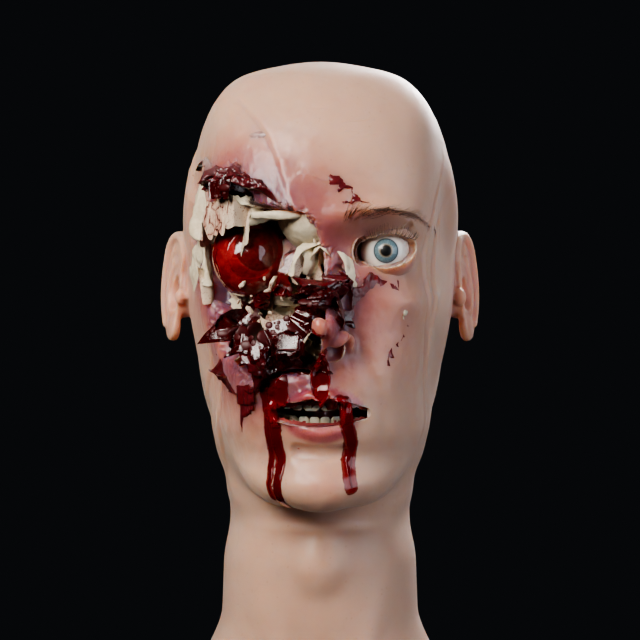
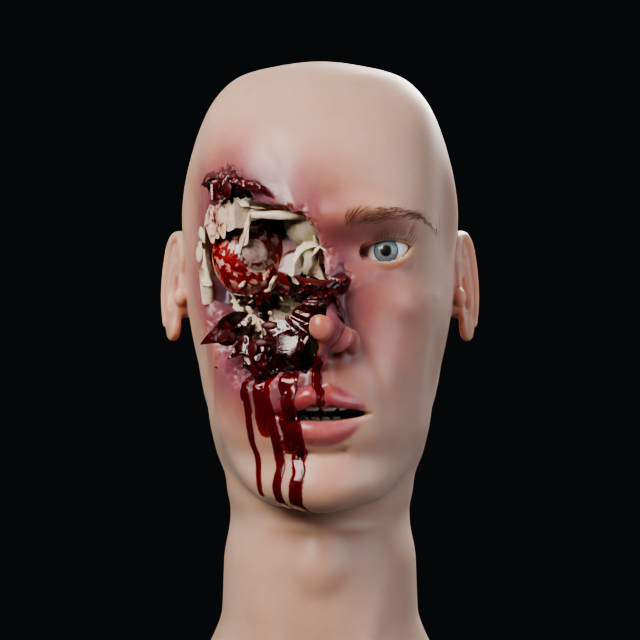
Face feedback: deep-set eye fix dropped by the user; standing 1:1-realism rule
Claude-Session: https://claude.ai/code/session_0186CV4JXPBpxwWrzN3Er8XW

Changed region(s): [[0.2812, 0.2188, 0.6875, 0.8125], [0.3125, 0.1562, 0.3438, 0.2188], [0.5938, 0.5312, 0.625, 0.5625]]

diff --git a/blender/gore_head/FACE_FEEDBACK.md b/blender/gore_head/FACE_FEEDBACK.md
@@ -9,7 +9,8 @@ The user's verdict on the current head (verbatim intent):
   leading into the canal, tragus and antitragus, and a SMALL lobe. Ears sit between brow line and nose base, tilted back
   ~15-20°, and stand off the head only slightly.
 - **Earlobes are far too long.** Shorten to a normal adult lobe (~15-20 mm of the ~60-65 mm ear height).
-- **Eyes look bug-eyed.** Seat the eyeballs deeper in the orbits: more brow-ridge overhang, deeper upper-lid crease and
+- ~~Eyes look bug-eyed / seat deeper~~ — **NO LONGER REQUIRED (user, 2026-09-27: "u dont gotta fix the eyes deepset just ensure 1:1 realism")**. Keep the eyes as they are; only fix them if something is anatomically wrong.
+- (old note) **Eyes look bug-eyed.** Seat the eyeballs deeper in the orbits: more brow-ridge overhang, deeper upper-lid crease and
   orbital hollow, lids covering more of the globe (upper lid over the top of the iris), less of the eyeball exposed from
   the side.
 - **Eyes are too far apart.** Reduce the interpupillary distance a little (adult male IPD ~62-64 mm, i.e. eye centres at
@@ -49,3 +50,7 @@ layer overlap checks pass (`python3 anatomy.py`). Also new for the cutaway: cerv
 spinal cord continuing the brain stem down the canal, an airway (pharynx → trachea) carved in the muscle layer,
 a frontal sinus, a larger maxillary sinus, a thinner palate and a domed tongue.
 Not done: a full sculpt-level rebuild of the auricle (helix roll / antihelix Y are the round-1 ones).
+
+
+## Standing rule (user, 2026-09-27)
+"ensure 1:1 realism on ur efforts. allways" — every change, on every part, is judged against real anatomy and the reference photos; nothing is "good enough" if it looks less real than the refs.

diff --git a/CLAUDE.md b/CLAUDE.md
@@ -55,6 +55,8 @@ integration stage and becomes the head of the full body.
 - **Reference photos:** the user supplied real forensic reference photos for education. Use them ONLY for generic
   injury/blood properties (recorded in `gore-game/docs/REFERENCE_NOTES.md`); never faces, tattoos, identities or a
   specific person's injuries; never commit the photos. The photos (1-21 plus face and GSW sheets) are in the git-ignored `refs/` folder at the repo root (they must be copied there locally; they are NOT in git); `refs/12_our_render_wall_stripes.png` shows OUR stripe artefact to eliminate; every agent building or reviewing wounds, blood, tissue, bone, skull, brain or the dead body must LOOK at them and compare renders side by side.
+- **Standing rule (user, 2026-09-27): "ensure 1:1 realism on ur efforts. allways".** Every change on every part is judged against real
+  anatomy and the refs. (Eyes: the deeper-set eye fix is no longer required; keep the eyes unless anatomically wrong.)
 - **Don't soften realism.** They explicitly want brain-damage deficits ("lose ability to do stuff, eyes might cross,
   arms twitch"), realistic body drops, reactions, stumbling, dying. Clinical, factual, complete.
 - **Performance:** "as long as Godot can handle 60 fps with blood and brain and gore" → target 60 fps at 1080p on a
